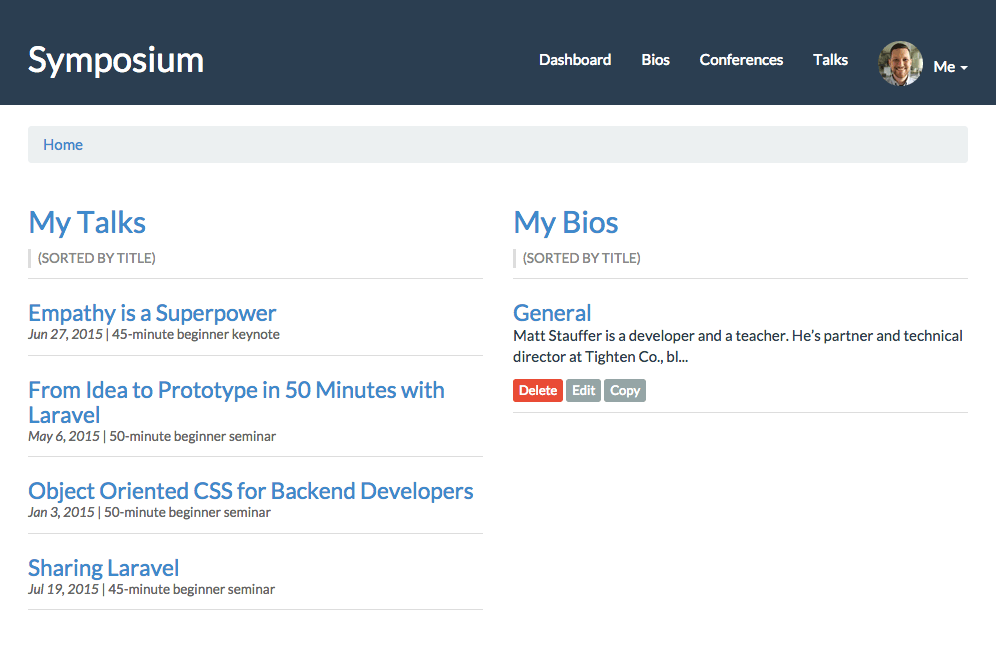
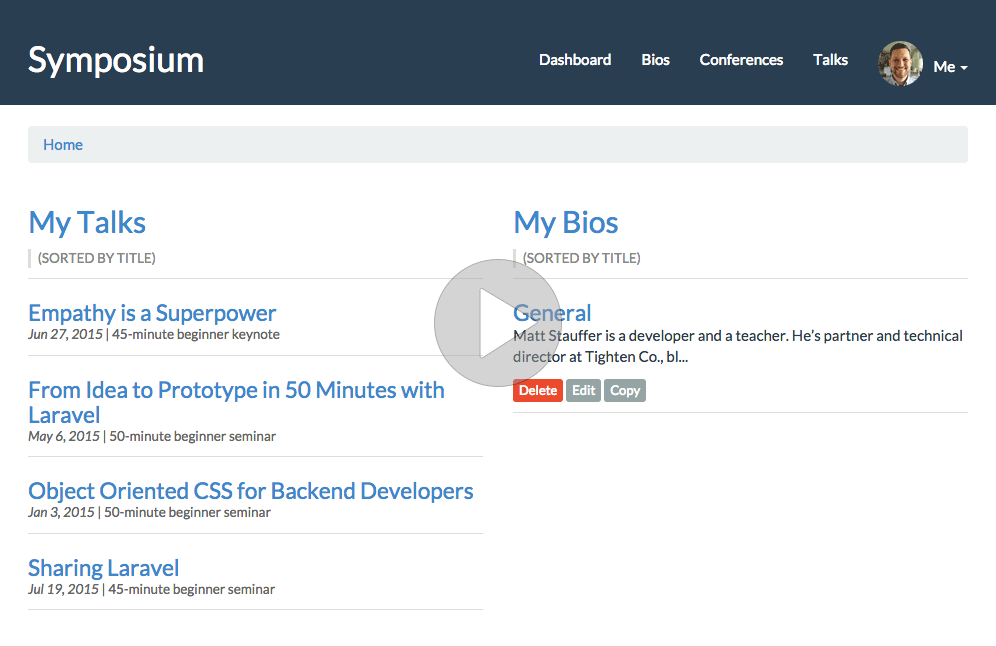
Link to YouTube

Changed region(s): [[0.4357, 0.4025, 0.5914, 0.6192]]

diff --git a/resources/views/home.blade.php b/resources/views/home.blade.php
@@ -10,7 +10,9 @@
                     <p>Symposium is a single place for <strong>speakers</strong> to manage talk proposals, bios, photos, and conference applications and responses.</p>
 
                     <p>
-                        <img src="/img/symposium-screenshot.png" alt="Symposium Screenshot" style="border-radius: 0.5em">
+                        <a href="https://www.youtube.com/watch?v=60hxVJpEXhw" target="_blank">
+                            <img src="/img/symposium-screenshot.png" alt="Symposium Screenshot" style="border-radius: 0.5em">
+                        </a>
                     </p>
 
                     <p>Symposium <b>will be</b> a single place for <strong>conference organizers</strong> to open CFPs, review speakers submissions, and manage the entire CFP process.</p>
@@ -38,7 +40,7 @@
                                 @include ('partials.log-in-form')
                             @else
                                 <p><a href="{{ route('dashboard') }}">Dashboard</a> | <a href="{{ route('log-out') }}">Logout</a></p>
-                                
+
                                 <hr>
 
                                 <div class="pronto-promo">
